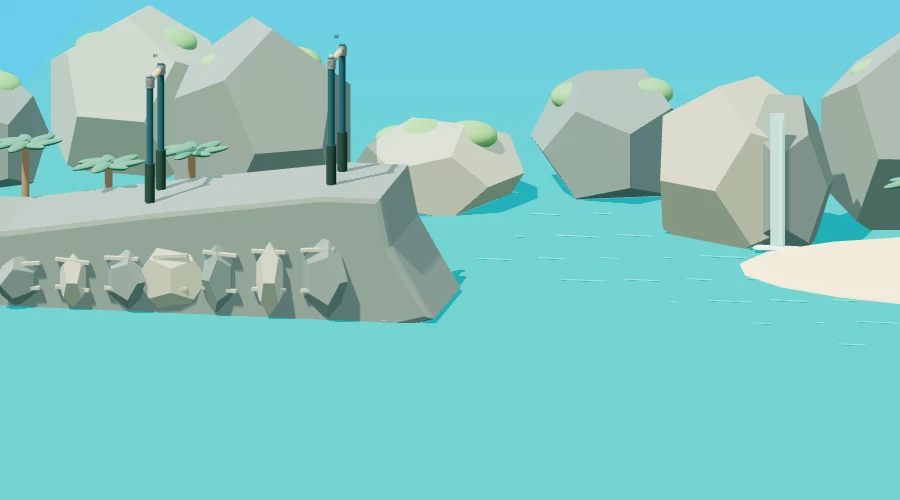
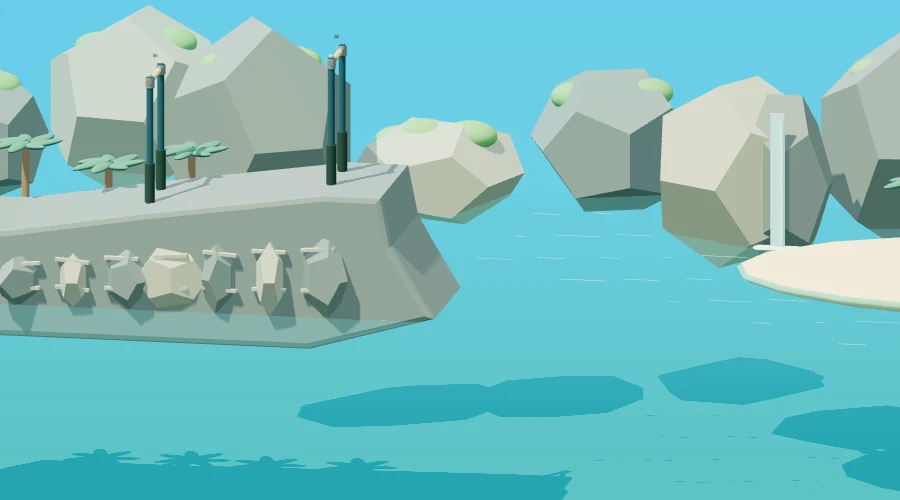
Show underwater dives with speed and weight scaled splashes and gentle camera shake

diff --git a/physics.js b/physics.js
@@ -15,9 +15,9 @@ function terrainHeight(map,x){
   return points.at(-1)[1];
 }
 const JUMPBAR_CHARACTERS=[
-  {id:'rookie',name:'Boxer Barry',style:'Big dreams. Questionable underwear.',price:0,body:1,bare:true,skin:'#dfa77f',shirt:'#dfa77f',pants:'#f4eee3',shoe:'#dfa77f',hair:'#6a422b',badge:'',ability:'Candle',instruction:'Hold TRICK without tucking for 0.4 s in the air.',special:'candle',specialPoints:100,spin:1,bounce:1},
-  {id:'bruno',name:'Big Bruno',style:'Big belly. Bigger bounce.',price:80,body:1.65,bare:true,skin:'#b97953',shirt:'#b97953',pants:'#e96b57',shoe:'#f6d569',hair:'#4b3027',badge:'',ability:'Cannonball',instruction:'Hold BOMB / B to curl up. Stay tucked for the splash.',special:'cannon',specialPoints:150,spin:.9,bounce:1.12},
-  {id:'neon',name:'Neon',style:'Light on her feet. Quick in the air.',price:220,body:.82,skin:'#88563e',shirt:'#26d6bf',pants:'#432969',shoe:'#f0ff8f',hair:'#251b35',badge:'N',ability:'Pike',instruction:'Hold TRICK without tucking for 0.4 s in the air.',special:'pike',specialPoints:175,spin:1.15,bounce:1},
+  {id:'rookie',name:'Boxer Barry',style:'Big dreams. Questionable underwear.',price:0,mass:75,body:1,bare:true,skin:'#dfa77f',shirt:'#dfa77f',pants:'#f4eee3',shoe:'#dfa77f',hair:'#6a422b',badge:'',ability:'Candle',instruction:'Hold TRICK without tucking for 0.4 s in the air.',special:'candle',specialPoints:100,spin:1,bounce:1},
+  {id:'bruno',name:'Big Bruno',style:'Big belly. Bigger bounce.',price:80,mass:120,body:1.65,bare:true,skin:'#b97953',shirt:'#b97953',pants:'#e96b57',shoe:'#f6d569',hair:'#4b3027',badge:'',ability:'Cannonball',instruction:'Hold BOMB / B to curl up. Stay tucked for the splash.',special:'cannon',specialPoints:150,spin:.9,bounce:1.12},
+  {id:'neon',name:'Neon',style:'Light on her feet. Quick in the air.',price:220,mass:60,body:.82,skin:'#88563e',shirt:'#26d6bf',pants:'#432969',shoe:'#f0ff8f',hair:'#251b35',badge:'N',ability:'Pike',instruction:'Hold TRICK without tucking for 0.4 s in the air.',special:'pike',specialPoints:175,spin:1.15,bounce:1},
 ];
 
 // Distance-constrained Verlet skeleton. Pose muscles switch off after a fall.
@@ -153,7 +153,10 @@ class KaariPhysics {
       const bombEntry=this.bombActive&&this.specialAwarded&&p.tuck>.65;
       const diveEntry=this.diveAwarded&&this.sinceDive>0&&this.sinceDive<.8&&p.tuck>.65;
       const bonus=bombEntry||diveEntry||clean?200:0;
-      this.splash={x:p.x,clean,duration:1.8,kind:bombEntry?'bomb':diveEntry?'deathdive':'normal',points:success?500+bonus:0};if(success)this.score+=500+bonus;p.vx=0;p.vy=0;
+      const impactSpeed=Math.max(0,p.vy),mass=this.character.mass;
+      const strength=clamp((.45+impactSpeed/700)*Math.sqrt(mass/75)*(bombEntry?1.25:1),.45,2.8);
+      this.splash={x:p.x,clean,duration:2.6,impactSpeed,mass,strength,kind:bombEntry?'bomb':diveEntry?'deathdive':'normal',points:success?500+bonus:0};if(success)this.score+=500+bonus;
+      p.vy=Math.max(90,p.vy*.65);p.vx*=.5;
     }else if(success){this.score+=500;this.player.vx=0;this.player.vy=0;this.player.twist=0;this.player.twistSpeed=0;this.player.angle=0;this.player.tuck=0;this.player.y=K_FLOOR-56;this.ragdoll.reset(this.player);}else{
       const p=this.player;
       const kind=p.tuck>.55||Math.abs(p.omega)>7?'roll':Math.cos(p.angle)<-.45?'head':Math.sin(p.angle)<-.55?'belly':Math.sin(p.angle)>.55?'back':'sit';
@@ -166,7 +169,12 @@ class KaariPhysics {
   step(dt,input={}){
     const p=this.player;if(this.ended){
       this.elapsedAfterEnd+=dt;
-      if(this.splash)return;
+      if(this.splash){
+        // Continue through the surface, then let water drag and buoyancy arrest the dive.
+        p.vx*=Math.exp(-2.8*dt);p.vy+=(32+(K_FLOOR+100-p.y)*1.5)*dt;p.vy*=Math.exp(-3*dt);
+        p.x+=p.vx*dt;p.y+=p.vy*dt;p.angle+=p.momentum*.15*dt;p.momentum*=Math.exp(-3*dt);
+        p.tuck*=Math.exp(-1.2*dt);p.specialPose=null;this.ragdoll.reset(p);return;
+      }
       if(this.crash&&!this.crash.kicked&&this.elapsedAfterEnd>.32){this.ragdoll.kick(this.crash.kind,this.crash.direction);this.crash.kicked=true;}
       this.ragdoll.step(dt,p,null,this.groundY(p.x));
       if(this.crash){p.x=this.ragdoll.joints.hip.x;p.y=this.ragdoll.joints.hip.y;p.vx=0;p.vy=0;}

diff --git a/renderer.js b/renderer.js
@@ -221,7 +221,10 @@ class KaariRenderer {
     if(islands){
       for(let i=0;i<5;i++){const isle=this.mesh(this.rockGeometry,rock);isle.position.set(edge+250+i*180,10,-170-i%2*70);isle.scale.set(70,28+i%2*20,55);this.ball(edge+250+i*180,27,-170-i%2*70,45,grass,this.world,1,.18,.8);}
     }
-    this.block(edge+game.mat.w/2,-25,-280,game.mat.w+1400,45,3200,water);
+    water.transparent=true;water.opacity=.32;water.depthWrite=false;
+    const surface=this.block(edge+game.mat.w/2,-2,-280,game.mat.w+1400,3,3200,water);surface.castShadow=false;surface.receiveShadow=false;
+    const deep=this.material(alpine?'#155b7b':'#137e89');
+    this.block(edge+game.mat.w/2,-310,-280,game.mat.w+1400,20,3200,deep);
     this.waterStreaks=[];
     for(let i=0;i<65;i++){
       const x=edge+40+(i*137)%(game.mat.w+400),z=-650+(i*97)%1050;
@@ -265,6 +268,8 @@ class KaariRenderer {
     // Shore foam marks where the safe water begins.
     for(let i=0;i<9;i++)this.ball(edge+10,0,-75+i*20,14,foam,this.world,.7,.07,1);
     this.splashGroup=new THREE.Group();this.world.add(this.splashGroup);this.splashGroup.visible=false;
+    this.bubbles=[];const bubbleMat=new THREE.MeshBasicMaterial({color:'#b8f8ff',transparent:true,opacity:.65,depthWrite:false});
+    for(let i=0;i<12;i++)this.bubbles.push(this.ball(0,0,0,1,bubbleMat,this.splashGroup));
     this.splashDrops=[];for(let i=0;i<24;i++)this.splashDrops.push(this.ball(0,0,0,3+i%3,foam,this.splashGroup));
     if(!this.rippleGeometry)this.rippleGeometry=new THREE.TorusGeometry(1,.018,5,48);
     this.ripples=[];for(let i=0;i<3;i++){const ring=this.mesh(this.rippleGeometry,foam,this.splashGroup);ring.rotation.x=Math.PI/2;this.ripples.push(ring);}
@@ -274,8 +279,9 @@ class KaariRenderer {
     this.waterStreaks.forEach((m,i)=>{m.position.x=m.userData.baseX+Math.sin(time*.65+i)*9;m.scale.x=(12+(i%5)*12)*(1+Math.sin(time+i)*.15);});
     this.splashGroup.visible=!!game.splash;
     if(!game.splash)return;
-    const t=game.elapsedAfterEnd;this.splashGroup.position.x=game.splash.x;this.splashGroup.scale.setScalar(game.splash.kind==='bomb'?1.7:game.splash.kind==='deathdive'?1.3:1);
+    const t=game.elapsedAfterEnd;this.splashGroup.position.x=game.splash.x;this.splashGroup.scale.setScalar(game.splash.strength);
     this.splashDrops.forEach((m,i)=>{const a=i*2.4,v=38+(i%5)*13;m.position.set(Math.cos(a)*t*v,Math.max(0,t*(120+(i%4)*22)-120*t*t),Math.sin(a)*t*v*.7);m.scale.setScalar(Math.max(0,1-t/1.5)*(3+i%3));});
+    this.bubbles.forEach((m,i)=>{const age=t-i*.055;m.visible=age>0&&age<2;const depth=Math.max(0,game.player.y-K_FLOOR);m.position.set((game.player.x-game.splash.x)/game.splash.strength+Math.sin(i*2.4+age*3)*9,-Math.max(3,depth/game.splash.strength-age*22),14+i%3*4);m.scale.setScalar((1+i%3*.55)*Math.max(0,1-age/2));});
     this.ripples.forEach((m,i)=>{const size=8+Math.max(0,t-i*.16)*90;m.scale.setScalar(size);m.position.y=.5+i*.1;m.visible=t>i*.16;});
   }
   buildMap(game){
@@ -338,11 +344,16 @@ class KaariRenderer {
     const inMenu=document.body.dataset.screen==='menu',time=performance.now()/1000;
     if(this.mapIndex!==game.mapIndex)this.buildMap(game);
     this.drawWater(game,time);
-    this.person.visible=inMenu||!game.splash||game.elapsedAfterEnd<.12;
+    this.person.visible=true;
+    if(game.splash&&!inMenu&&!this.mobile)focusY+=(Math.min(focusY,-30)-focusY)*Math.min(1,game.elapsedAfterEnd*3);
     const halfHeight=viewHeight/2,halfWidth=halfHeight*this.width/this.height;
     Object.assign(this.camera,{left:-halfWidth,right:halfWidth,top:halfHeight,bottom:-halfHeight});this.camera.updateProjectionMatrix();
     const cx=offset+halfWidth;
     this.camera.position.set(cx+210,focusY+265,1100);this.camera.lookAt(cx,focusY,0);
+    if(game.splash&&!inMenu&&!matchMedia('(prefers-reduced-motion: reduce)').matches){
+      const t=game.elapsedAfterEnd,a=game.splash.strength*2.1*Math.pow(Math.max(0,1-t/.42),2);
+      this.camera.position.x+=Math.sin(t*91)*a;this.camera.position.y+=Math.cos(t*113)*a*.65;
+    }
     this.sun.position.set(cx-270,720,360);this.sun.target.position.set(cx,0,0);
     let j=game.ragdoll.joints;
     if(inMenu){

diff --git a/physics.test.js b/physics.test.js
@@ -268,3 +268,10 @@ test('death dive needs unlock, awards once and rewards a timely fold',()=>{
  assert.equal(g.events.filter(e=>e.label==='DEATH DIVE').length,unlocked?1:0);
  }
 });
+
+test('water impact scales with speed and mass and preserves visible underwater motion',()=>{
+ function splash(id,speed){const g=new KaariPhysics(1);g.characterId=id;g.active=true;g.visited=new Set([0,1]);Object.assign(g.player,{bar:-1,x:g.mat.x+250,y:K_FLOOR-40,vy:speed,vx:60,angle:0});g.finish(true);return g;}
+ const low=splash('rookie',250),high=splash('rookie',950),heavy=splash('bruno',950),light=splash('neon',950);
+ assert.ok(high.splash.strength>low.splash.strength);assert.ok(heavy.splash.strength>high.splash.strength);assert.ok(light.splash.strength<high.splash.strength);
+ for(const g of [low,high,heavy,light]){const y=g.player.y,score=g.score;for(let i=0;i<240;i++)g.step(dt,{bomb:true,twist:1});assert.ok(g.player.y>y);assert.ok(g.player.y>K_FLOOR);assert.ok(g.player.y<K_FLOOR+250);assert.equal(g.score,score);for(const j of Object.values(g.ragdoll.joints))assert.ok(Number.isFinite(j.x+j.y));g.reset();assert.equal(g.splash,null);}
+});
